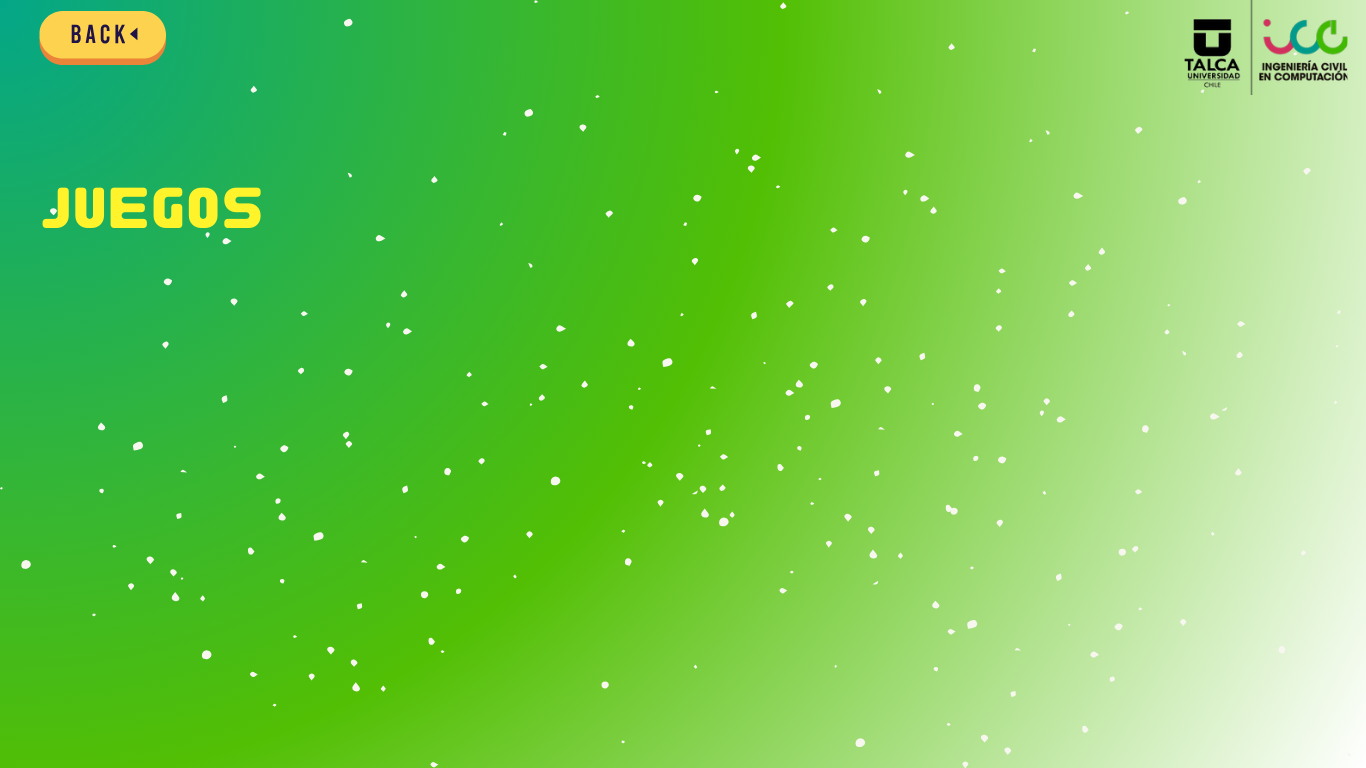
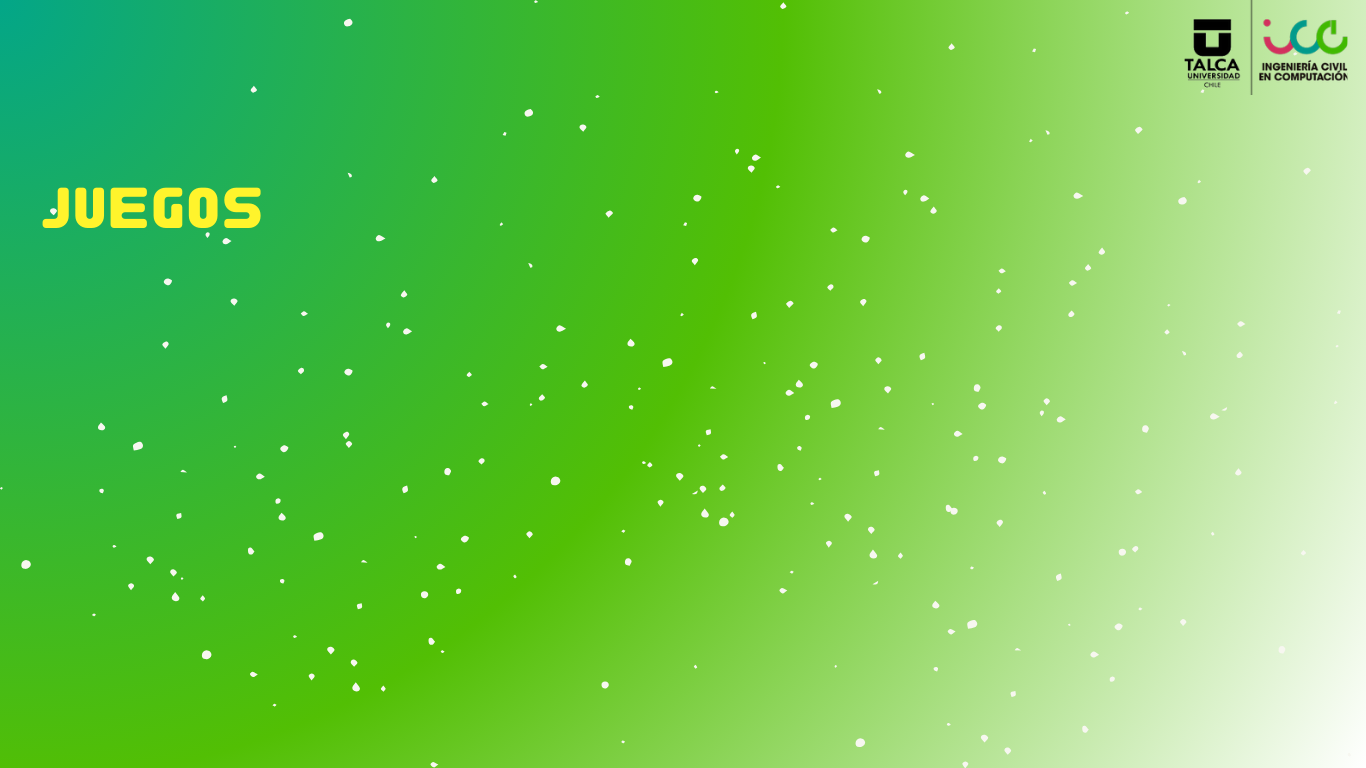
mejoras en el diseño de la interfaz

Changed region(s): [[0.0307, 0.0, 0.123, 0.0938]]

diff --git a/pagina_juegos/paginajuegos.html b/pagina_juegos/paginajuegos.html
@@ -9,7 +9,7 @@
 </head>
 <body>
     <a href="../dibujobytortuga/paginadibujobytortuga.html" class="buttonTortuga-layout">
-        <div id="imagen" >
+        <div id="imagen" style="border-radius: 2rem" >
             <div id="info" href="../dibujobytortuga/paginadibujobytortuga.html" >
                 <p class="recuadro" style=" color: white;width: 26rem;height: 3rem;align-content: center;margin: 2rem; text-align: center" id="headline">Dibujo By Tortuga</p>
                 <p style="margin-top: 7rem" id="descripcion">Te enfrentarás a la tarea de dibujar figuras utilizando líneas rectas. Deberas proporcionar instrucciones precisas para que la tortuga realice movimientos como arriba, abajo, izquierda y derecha.</p>
@@ -18,7 +18,7 @@
     </a>
     
     <a href="../simondice/paginasimondice.html" class="buttonSimon-layout">
-        <div id="imagensimon" >
+        <div id="imagensimon" style="border-radius: 2rem">
             <div id="info" href="../simondice/paginasimondice.html" >
                 <p class="recuadro" style="color: white; width: 26rem;height: 3rem;align-content: center;margin: 2rem; text-align: center" id="headline">Simón</p>
                 <p style="margin-top: 7rem" id="descripcion">Debes seguir y replicar secuencias de luces y sonidos en un patrón cada vez más complejo. Este minijuego pone a prueba tu memoria y concentración.</p>
@@ -27,7 +27,7 @@
     </a>
     
     <a href="../rescatargatito/paginarescatedelgatito.html" class="buttonGato-layout" style="border-radius: 50rem">
-        <div style="margin-left: 0rem;margin-top: 0rem" id="imagenrescate" >
+        <div style="margin-left: 0rem;margin-top: 0rem;border-radius: 2rem" id="imagenrescate" >
             <div id="info" href="../rescatargatito/paginarescatedelgatito.html" >
                 <p class="recuadro1" style=" color: white;width: 26rem;height: 3rem;align-content: center;margin: 2rem; text-align: center" id="headline">Rescatar al Gatito</p>
                 <p style="margin-top: 7rem" id="descripcion" >Asumes el papel de un personaje que debe salvar a un gatito atrapado en una plataforma dentro de un complejo circuito. Debes planificar cuidadosamente tus movimientos para lograr el rescate con éxito.</p>
@@ -37,7 +37,7 @@
     
     
     <a href="../tresenlinea/paginatresenlinea.html" class="buttonTresEnLinea-layout">
-        <div id="imagentres" >
+        <div id="imagentres" style="border-radius: 10rem" >
             <div id="info" href="../tresenlinea/paginatresenlinea.html" >
                 <p class="recuadro1"  style="color: white; width: 26rem;height: 3rem;align-content: center;margin: 2rem; text-align: center" id="headline">Tres En Línea</p>
                 <p style="margin-top: 7rem" id="descripcion">Un clásico juego de Tres en Línea, donde debes competir por colocar tres fichas en línea en un tablero.</p>

diff --git a/pagina_juegos/paginajuegoscss.css b/pagina_juegos/paginajuegoscss.css
@@ -98,7 +98,7 @@ div#imagen {
   height: 35vh;  /* Altura del botón */
   cursor: pointer;
   border: none; /* Elimina el borde del botón */  
-    
+  border-radius: 2rem;
 }
 
 div#info {
@@ -109,10 +109,12 @@ div#info {
   background-color: whitesmoke;
   opacity:0;
   transition: opacity 0.3s;
+  border-radius: 2rem;
 }
 
 div#imagen:hover div#info {
   opacity:1;
+  border-radius: 2rem;
 }
 
 p#headline {
@@ -151,7 +153,7 @@ div#imagensimon{
   height: 35vh;  /* Altura del botón */
   cursor: pointer;
   border: none; /* Elimina el borde del botón */
-    
+    border-radius: 2rem;
 }
 
 div#imagensimon:hover p#descripcion {
@@ -162,6 +164,7 @@ div#imagensimon:hover p#headline {
 }
 div#imagensimon:hover div#info {
   opacity:1;
+    border-radius: 2rem;
 }
 
 div#imagentres{
@@ -176,7 +179,7 @@ div#imagentres{
     cursor: pointer;
     border: none; /* Elimina el borde del botón */
     color: transparent; /* Hace que el color del texto sea transparente */
-    
+    border-radius: 2rem;
 }
 div#imagentres:hover div#info {
   opacity:1;
@@ -189,6 +192,7 @@ div#imagentres:hover p#headline {
 }
 div#imagentres:hover div#info {
   opacity:1;
+    border-radius: 2rem;
 }
 
 
@@ -204,7 +208,7 @@ div#imagenrescate{
   cursor: pointer;
   border: none; /* Elimina el borde del botón */
   color: transparent;
-    
+    border-radius: 2rem;
 }
 div#imagenrescate:hover div#info {
   opacity:1;
@@ -217,6 +221,7 @@ div#imagenrescate:hover p#headline {
 }
 div#imagenrescate:hover div#info {
   opacity:1;
+    border-radius: 2rem;
 }
 
 .recuadro {

diff --git a/tresenlinea/tresenlinea.css b/tresenlinea/tresenlinea.css
@@ -1,4 +1,33 @@
+body{
+    margin: 0;
+    padding: 0;
+    background-image: url('tres.png');
+    background-size: cover;
+    background-repeat: no-repeat;
+    background-attachment: fixed;
+    background-position: center;
+}
 #phaser-container {
     width: 400%; /* Ancho deseado del juego */
     height: 500%; /* Alto deseado del juego */
 }
+
+.buttonBack-layout {
+    position: fixed;
+    left: 50px;    /* Coordenada X     */
+    top: 9px;     /* Coordenada Y     */
+    width: 200px;   /* Ancho del botón  */
+    height: 100px;  /* Altura del botón */
+    background: transparent; /* Hace que el fondo del botón sea transparente */
+    border: none; /* Elimina el borde del botón */
+    color: transparent; /* Hace que el color del texto sea transparente */ 
+    background-image: url('back.png'); /* Ruta de la imagen de fondo */
+    background-size: cover; /* Ajusta la imagen al tamaño del botón */
+    background-position: center; /* Centra la imagen en el botón */
+    background-repeat: no-repeat; /* Evita la repetición de la imagen */
+    cursor: pointer;
+    animation: .pulso 1s infinite; /* Nombre de la animación, duración y repetición infinita */
+}
+.buttonBack-layout:active {
+   transform: scale(0.9);
+ }

diff --git a/rescatargatito/rescatedelgatito.css b/rescatargatito/rescatedelgatito.css
@@ -1,12 +1,11 @@
 body{
     margin: 0;
     padding: 0;
-    background-image: url('rescategatitohd.png');
+    background-image: url('fondo.png');
     background-size: cover;
     background-repeat: no-repeat;
     background-attachment: fixed;
     background-position: center;
-    
 }
 
 #phaser-container {
@@ -30,8 +29,8 @@ body{
     cursor: pointer;
     animation: .pulso 1s infinite; /* Nombre de la animación, duración y repetición infinita */
 }
-
-
-
+.buttonBack-layout:active {
+   transform: scale(0.9);
+ }
 
 

diff --git a/tresenlinea/paginatresenlinea.html b/tresenlinea/paginatresenlinea.html
@@ -8,6 +8,11 @@
     <script src="https://cdn.jsdelivr.net/npm/phaser@3.60.0/dist/phaser-arcade-physics.min.js"></script>
 </head>
 <body style="margin-right:19% ; margin-top:8%; display:flex;align-items: center">
+    <div>
+        <a href="../pagina_juegos/paginajuegos.html">
+            <button class="buttonBack-layout" title="Librería de juegos">Back</button>
+        </a>
+    </div>
     <div id="phaser-container">
        <script>
          class Example extends Phaser.Scene

diff --git a/dibujobytortuga/dibujobytortuga.css b/dibujobytortuga/dibujobytortuga.css
@@ -1,7 +1,7 @@
 body{
     margin: 0;
     padding: 0;
-    background-image: url('dibujobytortuga.png');
+    background-image: url('dibujo.png');
     background-size: cover;
     background-repeat: no-repeat;
     background-attachment: fixed;
